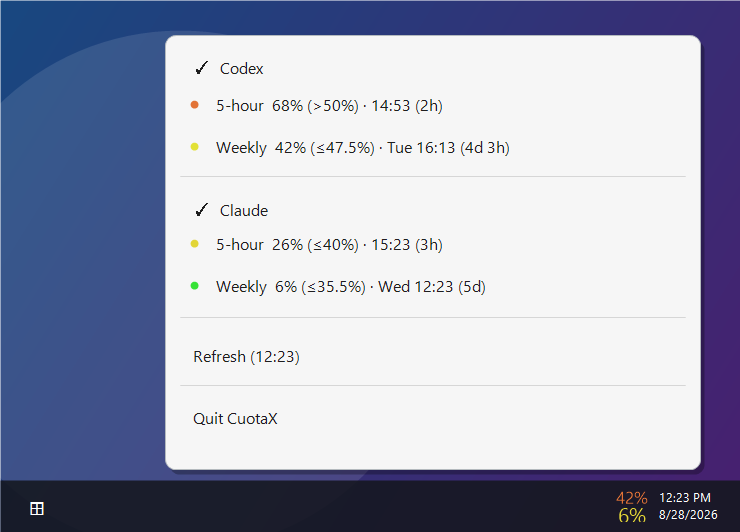
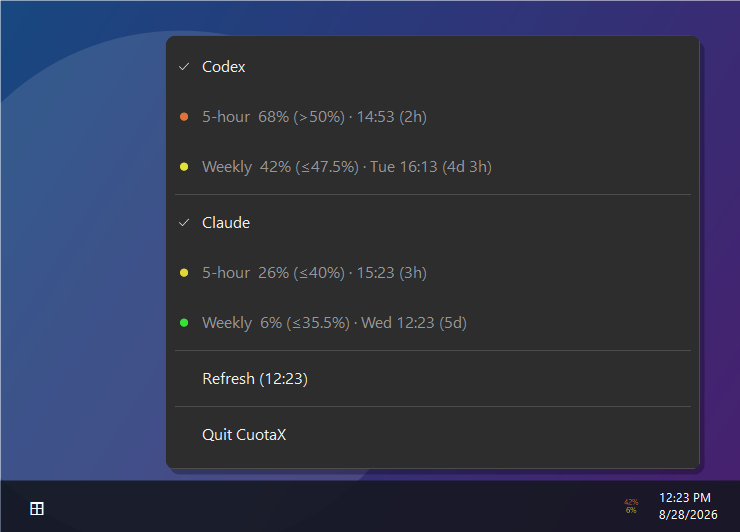
fix(windows): share tray menu rendering with screenshots (#28)
* fix(windows): share tray menu rendering with screenshots

Add quota pace indicators to the Windows menu and use the same quota
rows in screenshots. Replace the hand-drawn screenshot menu with the
actual tray control.

* chore: update windows screenshot

* fix

* chore: update windows screenshot

* fix again

* chore: update windows screenshot

* size

* chore: update windows screenshot

* sigh

* chore: update windows screenshot

* fix(windows): use dark mode for screenshots

* chore: update windows screenshot

* fix(windows): remove raised borders and blurry screenshot scaling

Draw a flat menu border while preserving high contrast rendering.
Lay out the screenshot menu at its final size with fixed DPI so text
does not need bitmap enlargement.

* chore: update windows screenshot

* fix(windows): restore rounded screenshot corners

* chore: update windows screenshot

* fix(windows): use UTC clocks and native tray size in screenshots

Format refresh and taskbar labels from UTC fixture timestamps.
Draw the tray icon at its native size without stretching.

* chore: update windows screenshot

---------

diff --git a/windows/CuotaX/ScreenshotRenderer.cs b/windows/CuotaX/ScreenshotRenderer.cs
@@ -2,6 +2,7 @@
 
 using System.Drawing.Drawing2D;
 using System.Drawing.Imaging;
+using System.Globalization;
 
 namespace CuotaX;
 
@@ -53,61 +54,47 @@ internal static class ScreenshotRenderer
 
     private static void DrawMenu(Graphics graphics)
     {
-        var bounds = new RectangleF(165, 35, 535, 434);
+        using var font = new Font("Segoe UI", 16, FontStyle.Regular, GraphicsUnit.Pixel);
+        using var menu = new TrayMenu { Font = font };
+        menu.Items.Add(new ToolStripMenuItem("Codex") { Checked = true });
+        menu.AddWindow("5-hour", Fixture.FiveHour, fiveHour: true, Now);
+        menu.AddWindow("Weekly", Fixture.Weekly, fiveHour: false, Now);
+        menu.Items.Add(new ToolStripSeparator());
+        menu.Items.Add(new ToolStripMenuItem("Claude") { Checked = true });
+        menu.AddWindow("5-hour", ClaudeFixture.FiveHour, fiveHour: true, Now);
+        menu.AddWindow("Weekly", ClaudeFixture.Weekly, fiveHour: false, Now);
+        menu.Items.Add(new ToolStripSeparator());
+        menu.Items.Add(new ToolStripMenuItem($"Refresh ({Fixture.UpdatedAt.UtcDateTime.ToString("HH:mm", CultureInfo.InvariantCulture)})"));
+        menu.Items.Add(new ToolStripSeparator());
+        menu.Items.Add(new ToolStripMenuItem("Quit CuotaX"));
+        foreach (ToolStripItem item in menu.Items)
+        {
+            if (item is ToolStripMenuItem)
+            {
+                item.Padding = new Padding(0, 13, 0, 13);
+            }
+        }
+        menu.AutoSize = false;
+        menu.Size = new Size(535, 434);
+        using var image = new Bitmap(menu.Width, menu.Height, PixelFormat.Format32bppArgb);
+        menu.DrawToBitmap(image, new Rectangle(Point.Empty, menu.Size));
+
+        var bounds = new Rectangle(165, 35, menu.Width, menu.Height);
+        const int radius = 10;
         using (var shadowPath = RoundedRectangle(
             new RectangleF(bounds.X + 4, bounds.Y + 5, bounds.Width, bounds.Height),
-            10
+            radius
         ))
         using (var shadow = new SolidBrush(Color.FromArgb(72, 0, 0, 0)))
         {
             graphics.FillPath(shadow, shadowPath);
         }
-        using (var path = RoundedRectangle(bounds, 10))
-        using (var menu = new SolidBrush(Color.FromArgb(246, 246, 246)))
-        using (var border = new Pen(Color.FromArgb(180, 186, 190), 1))
+        using (var path = RoundedRectangle(bounds, radius))
+        using (var texture = new TextureBrush(image, WrapMode.Clamp))
         {
-            graphics.FillPath(menu, path);
-            graphics.DrawPath(border, path);
+            texture.TranslateTransform(bounds.X, bounds.Y);
+            graphics.FillPath(texture, path);
         }
-
-        DrawText(graphics, "✓  Codex", 190, 57, Color.FromArgb(30, 30, 30));
-        DrawWindow(graphics, "5-hour", Fixture.FiveHour!, true, 94);
-        DrawWindow(graphics, "Weekly", Fixture.Weekly!, false, 136);
-        Separator(graphics, 176);
-        DrawText(graphics, "✓  Claude", 190, 199, Color.FromArgb(30, 30, 30));
-        DrawWindow(graphics, "5-hour", ClaudeFixture.FiveHour!, true, 233);
-        DrawWindow(graphics, "Weekly", ClaudeFixture.Weekly!, false, 275);
-        Separator(graphics, 317);
-        DrawText(graphics, $"Refresh ({QuotaFormatting.Time(Fixture.UpdatedAt)})", 190, 345, Color.FromArgb(30, 30, 30));
-        Separator(graphics, 385);
-        DrawText(graphics, "Quit CuotaX", 190, 407, Color.FromArgb(30, 30, 30));
-    }
-
-    private static void DrawWindow(
-        Graphics graphics,
-        string label,
-        QuotaWindow window,
-        bool fiveHour,
-        float y
-    )
-    {
-        var status = Quota.StatusFor(
-            window,
-            fiveHour ? "5-hour" : "weekly",
-            fiveHour ? QuotaFormatting.FiveHourMinutes : QuotaFormatting.WeeklyMinutes,
-            Now
-        );
-        var pace = QuotaFormatting.Color(status) ?? new PaceColor(113, 113, 122);
-        using (var dot = new SolidBrush(Color.FromArgb(pace.Red, pace.Green, pace.Blue)))
-        {
-            graphics.FillEllipse(dot, 190, y + 6, 8, 8);
-        }
-
-        var comparison = window.UsedPercent <= status.OnTrackPercent ? "≤" : ">";
-        var reset = QuotaFormatting.Reset(window.ResetsAt, Now, includeDate: !fiveHour);
-        var title =
-            $"{label}  {QuotaFormatting.Percent(window.UsedPercent)} ({comparison}{QuotaFormatting.Percent(status.OnTrackPercent)}) · {reset}";
-        DrawText(graphics, title, 213, y, Color.FromArgb(30, 30, 30));
     }
 
     private static void DrawTaskbar(Graphics graphics)
@@ -125,24 +112,16 @@ internal static class ScreenshotRenderer
             TrayIconRenderer.ForQuota(Fixture, Now, weeklyOnly: true),
             TrayIconRenderer.ForQuota(ClaudeFixture, Now, weeklyOnly: true),
         };
-        using var icon = TrayIconRenderer.Render(visuals, 32, updateAvailable: false);
-        graphics.DrawImage(icon, new Rectangle(616, 490, 32, 32));
+        using var icon = TrayIconRenderer.Create(visuals);
+        graphics.DrawIconUnstretched(icon, new Rectangle(
+            616 + (32 - icon.Width) / 2,
+            490 + (32 - icon.Height) / 2,
+            icon.Width,
+            icon.Height
+        ));
         using var clockFont = new Font("Segoe UI", 12, FontStyle.Regular, GraphicsUnit.Pixel);
-        graphics.DrawString("12:23 PM", clockFont, white, 657, 489);
-        graphics.DrawString("8/28/2026", clockFont, white, 657, 506);
-    }
-
-    private static void DrawText(Graphics graphics, string value, float x, float y, Color color)
-    {
-        using var font = new Font("Segoe UI", 16, FontStyle.Regular, GraphicsUnit.Pixel);
-        using var brush = new SolidBrush(color);
-        graphics.DrawString(value, font, brush, x, y);
-    }
-
-    private static void Separator(Graphics graphics, float y)
-    {
-        using var pen = new Pen(Color.FromArgb(214, 214, 214), 1);
-        graphics.DrawLine(pen, 180, y, 685, y);
+        graphics.DrawString(Now.UtcDateTime.ToString("h:mm tt", CultureInfo.InvariantCulture), clockFont, white, 657, 489);
+        graphics.DrawString(Now.UtcDateTime.ToString("M/d/yyyy", CultureInfo.InvariantCulture), clockFont, white, 657, 506);
     }
 
     private static GraphicsPath RoundedRectangle(RectangleF bounds, float radius)

diff --git a/windows/CuotaX/TrayMenu.cs b/windows/CuotaX/TrayMenu.cs
@@ -13,6 +13,27 @@ internal sealed class TrayMenu : ContextMenuStrip
         Renderer = new MenuRenderer();
     }
 
+    internal void AddWindow(string label, QuotaWindow? window, bool fiveHour, DateTimeOffset? now = null)
+    {
+        var status = Quota.StatusFor(
+            window,
+            fiveHour ? "5-hour" : "weekly",
+            fiveHour ? QuotaFormatting.FiveHourMinutes : QuotaFormatting.WeeklyMinutes,
+            now
+        );
+        var reference = status.OnTrackPercent is null
+            ? string.Empty
+            : $" ({(status.Level == QuotaLevel.Normal ? "≤" : ">")}{QuotaFormatting.Percent(status.OnTrackPercent)})";
+        var text = window is null
+            ? $"{label}  —"
+            : $"{label}  {QuotaFormatting.Percent(window.UsedPercent)}{reference} · {QuotaFormatting.Reset(window.ResetsAt, now, includeDate: !fiveHour)}";
+        Items.Add(new ToolStripMenuItem(text)
+        {
+            Enabled = false,
+            Tag = status,
+        });
+    }
+
     protected override Padding DefaultPadding
     {
         get
@@ -57,6 +78,21 @@ internal sealed class TrayMenu : ContextMenuStrip
 
     private sealed class MenuRenderer : ToolStripSystemRenderer
     {
+        protected override void OnRenderToolStripBorder(ToolStripRenderEventArgs eventArgs)
+        {
+            if (SystemInformation.HighContrast)
+            {
+                base.OnRenderToolStripBorder(eventArgs);
+                return;
+            }
+
+            var bounds = eventArgs.ToolStrip.ClientRectangle;
+            bounds.Width -= 1;
+            bounds.Height -= 1;
+            using var pen = new Pen(Color.FromArgb(40, SystemColors.MenuText));
+            eventArgs.Graphics.DrawRectangle(pen, bounds);
+        }
+
         protected override void OnRenderMenuItemBackground(ToolStripItemRenderEventArgs eventArgs)
         {
             if (SystemInformation.HighContrast)
@@ -90,12 +126,28 @@ internal sealed class TrayMenu : ContextMenuStrip
             if (SystemInformation.HighContrast)
             {
                 base.OnRenderItemText(eventArgs);
-                return;
             }
-
-            TextRenderer.DrawText(eventArgs.Graphics, eventArgs.Text, eventArgs.TextFont,
-                eventArgs.TextRectangle, eventArgs.Item.Enabled ? SystemColors.MenuText : SystemColors.GrayText,
-                eventArgs.TextFormat);
+            else
+            {
+                TextRenderer.DrawText(eventArgs.Graphics, eventArgs.Text, eventArgs.TextFont,
+                    eventArgs.TextRectangle, eventArgs.Item.Enabled ? SystemColors.MenuText : SystemColors.GrayText,
+                    eventArgs.TextFormat);
+            }
+            if (eventArgs.Item.Tag is QuotaStatus status && eventArgs.ToolStrip is { } menu)
+            {
+                var pace = QuotaFormatting.Color(status);
+                var color = pace is { } value
+                    ? Color.FromArgb(value.Red, value.Green, value.Blue)
+                    : SystemColors.GrayText;
+                var size = menu.LogicalToDeviceUnits(8);
+                var x = GutterCenter(eventArgs.Item, menu) - size / 2f;
+                var y = (eventArgs.Item.Height - size) / 2f;
+                var state = eventArgs.Graphics.Save();
+                eventArgs.Graphics.SmoothingMode = SmoothingMode.AntiAlias;
+                using var brush = new SolidBrush(color);
+                eventArgs.Graphics.FillEllipse(brush, x, y, size, size);
+                eventArgs.Graphics.Restore(state);
+            }
         }
 
         protected override void OnRenderSeparator(ToolStripSeparatorRenderEventArgs eventArgs)
@@ -125,13 +177,7 @@ internal sealed class TrayMenu : ContextMenuStrip
             var x = bounds.Left + bounds.Width / 2f;
             if (eventArgs.ToolStrip is { } menu)
             {
-                var rightToLeft = eventArgs.Item.RightToLeft == RightToLeft.Yes;
-                var gutter = rightToLeft ? menu.Padding.Right : menu.Padding.Left;
-                x = (4 * scale + gutter) / 2f;
-                if (rightToLeft)
-                {
-                    x = eventArgs.Item.Width - x;
-                }
+                x = GutterCenter(eventArgs.Item, menu);
             }
             var y = bounds.Top + bounds.Height / 2f;
             var state = eventArgs.Graphics.Save();
@@ -149,6 +195,14 @@ internal sealed class TrayMenu : ContextMenuStrip
                 new PointF(x + 4.5f * scale, y - 3.5f * scale),
             ]);
             eventArgs.Graphics.Restore(state);
+        }
+
+        private static float GutterCenter(ToolStripItem item, ToolStrip menu)
+        {
+            var rightToLeft = item.RightToLeft == RightToLeft.Yes;
+            var gutter = rightToLeft ? menu.Padding.Right : menu.Padding.Left;
+            var x = (menu.LogicalToDeviceUnits(4) + gutter) / 2f;
+            return rightToLeft ? item.Width - x : x;
         }
     }
 }

diff --git a/windows/CuotaX/TrayApplicationContext.cs b/windows/CuotaX/TrayApplicationContext.cs
@@ -376,11 +376,11 @@ internal sealed class TrayApplicationContext : ApplicationContext
             }
             if (state.Quota is { } quota)
             {
-                AddWindow("5-hour", quota.FiveHour, fiveHour: true);
-                AddWindow("Weekly", quota.Weekly, fiveHour: false);
+                _menu.AddWindow("5-hour", quota.FiveHour, fiveHour: true);
+                _menu.AddWindow("Weekly", quota.Weekly, fiveHour: false);
                 if (quota.Fable is { } fable)
                 {
-                    AddWindow("Fable weekly", fable, fiveHour: false);
+                    _menu.AddWindow("Fable weekly", fable, fiveHour: false);
                 }
                 if (state.Error is { } error)
                 {
@@ -417,27 +417,6 @@ internal sealed class TrayApplicationContext : ApplicationContext
         var quit = new ToolStripMenuItem("Quit CuotaX");
         quit.Click += (_, _) => ExitThread();
         _menu.Items.Add(quit);
-    }
-
-    private void AddWindow(string label, QuotaWindow? window, bool fiveHour)
-    {
-        if (window is null)
-        {
-            AddInfo($"{label}  —");
-            return;
-        }
-
-        var status = Quota.StatusFor(
-            window,
-            fiveHour ? "5-hour" : "weekly",
-            fiveHour ? QuotaFormatting.FiveHourMinutes : QuotaFormatting.WeeklyMinutes
-        );
-        var reference = status.OnTrackPercent is null
-            ? string.Empty
-            : $" ({(status.Level == QuotaLevel.Normal ? "≤" : ">")}{QuotaFormatting.Percent(status.OnTrackPercent)})";
-        AddInfo(
-            $"{label}  {QuotaFormatting.Percent(window.UsedPercent)}{reference} · {QuotaFormatting.Reset(window.ResetsAt, includeDate: !fiveHour)}"
-        );
     }
 
     private void AddInfo(string text)

diff --git a/windows/CuotaX/TrayIconRenderer.cs b/windows/CuotaX/TrayIconRenderer.cs
@@ -110,11 +110,16 @@ internal static class TrayIconRenderer
             {
                 using var glyph = new GraphicsPath();
                 using var family = new FontFamily("Segoe UI");
+                // a fixed reference keeps both rows and changing percentages at the same font size
+                const string referenceLabel = "99%";
+                glyph.AddString(referenceLabel, family, (int)FontStyle.Regular, size, PointF.Empty, StringFormat.GenericTypographic);
+                var referenceBounds = glyph.GetBounds();
+                using var reference = new Font(family, size, FontStyle.Regular, GraphicsUnit.Pixel);
+                var width = graphics.MeasureString(referenceLabel, reference, 1000, StringFormat.GenericTypographic).Width;
+                var scale = Math.Min(rowBounds.Width / width, (rowBounds.Height - size / 32f) / referenceBounds.Height);
+                glyph.Reset();
                 glyph.AddString(visual.Label, family, (int)FontStyle.Regular, size, PointF.Empty, StringFormat.GenericTypographic);
                 var glyphBounds = glyph.GetBounds();
-                using var reference = new Font(family, size, FontStyle.Regular, GraphicsUnit.Pixel);
-                var width = graphics.MeasureString(visual.Label, reference, 1000, StringFormat.GenericTypographic).Width;
-                var scale = Math.Min(rowBounds.Width / width, (rowBounds.Height - size / 32f) / glyphBounds.Height);
                 var origin = new PointF(
                     rowBounds.X + (rowBounds.Width - glyphBounds.Width * scale) / 2 - glyphBounds.X * scale,
                     rowBounds.Y + (rowBounds.Height - glyphBounds.Height * scale) / 2 - glyphBounds.Y * scale

diff --git a/windows/CuotaX.Tests/Program.cs b/windows/CuotaX.Tests/Program.cs
@@ -37,6 +37,7 @@ var tests = new List<(string Name, Func<Task> Run)>
     ("Claude login concurrency", TestClaudeConcurrentRenewal),
     ("stacked tray icon", TestStackedTrayIcon),
     ("native tray icon", TestNativeTrayIcon),
+    ("stacked tray text size", TestStackedTrayTextSize),
 };
 
 if (Environment.GetEnvironmentVariable("CODEX_TEST_LIVE") == "1")
@@ -303,6 +304,29 @@ static Task TestStackedTrayIcon()
     using var icon = TrayIconRenderer.Create(rows);
     True(icon.Handle != nint.Zero);
 
+    return Task.CompletedTask;
+}
+
+static Task TestStackedTrayTextSize()
+{
+    var rows = new[]
+    {
+        new TrayIconVisual("42%", Color.White, Color.Black),
+        new TrayIconVisual("6%", Color.White, Color.Black),
+    };
+    foreach (var size in new[] { 16, 20, 24, 32 })
+    {
+        using var image = TrayIconRenderer.Render(rows, size);
+        var heights = Enumerable.Range(0, rows.Length).Select(row =>
+        {
+            var ink = Enumerable.Range(row * size / 2, size / 2)
+                .Where(y => Enumerable.Range(0, size).Any(x => image.GetPixel(x, y).A > 16))
+                .ToArray();
+            True(ink.Length > 0);
+            return ink[^1] - ink[0] + 1;
+        }).ToArray();
+        Equal(heights[0], heights[1]);
+    }
     return Task.CompletedTask;
 }
 

diff --git a/windows/CuotaX/Program.cs b/windows/CuotaX/Program.cs
@@ -10,8 +10,10 @@ internal static class Program
         var screenshotIndex = Array.IndexOf(args, "--screenshot");
         if (screenshotIndex >= 0 && screenshotIndex + 1 < args.Length)
         {
-            ApplicationConfiguration.Initialize();
-            Application.SetColorMode(SystemColorMode.System);
+            Application.SetHighDpiMode(HighDpiMode.DpiUnaware);
+            Application.EnableVisualStyles();
+            Application.SetCompatibleTextRenderingDefault(false);
+            Application.SetColorMode(SystemColorMode.Dark);
             ScreenshotRenderer.Save(args[screenshotIndex + 1]);
             return;
         }
